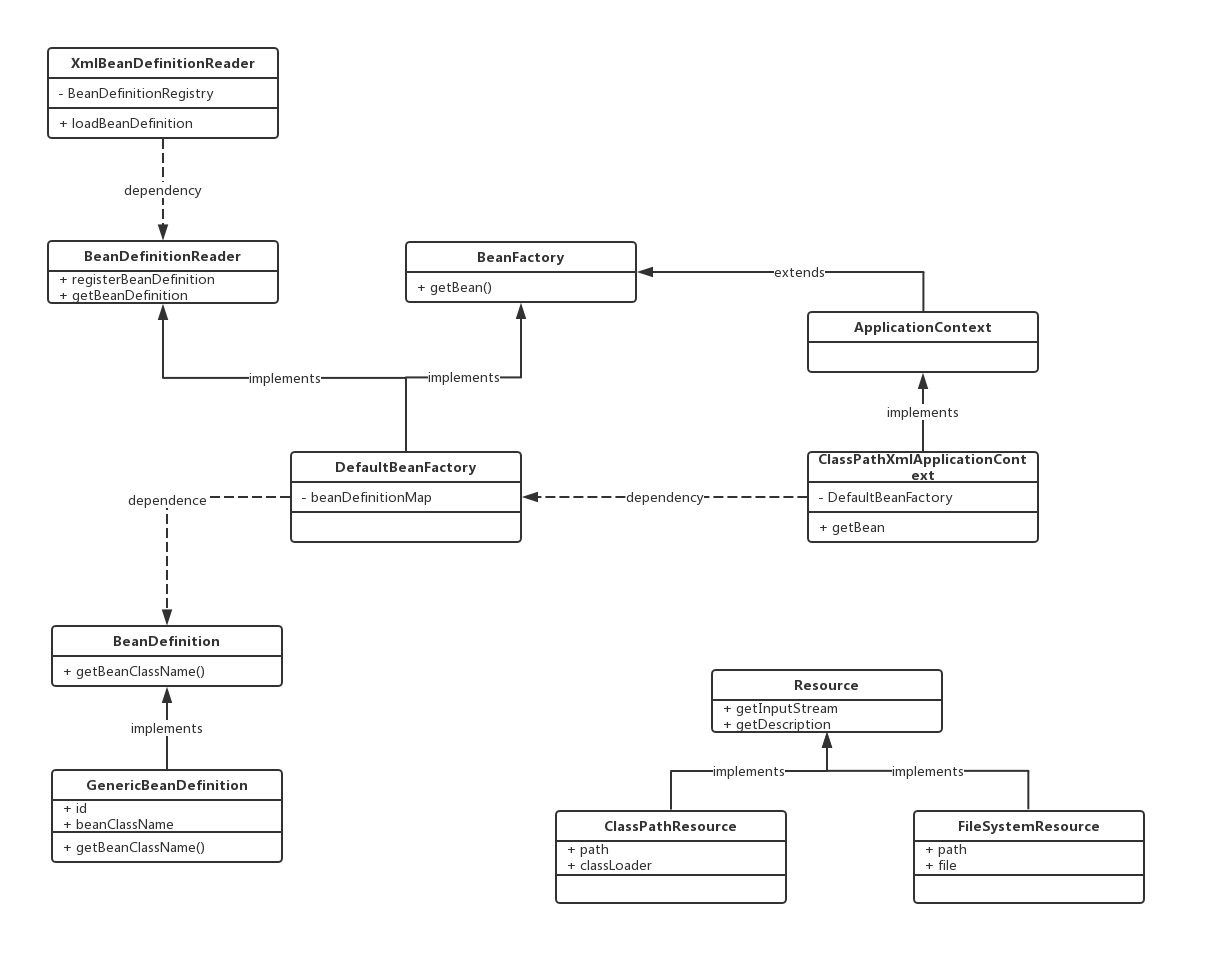
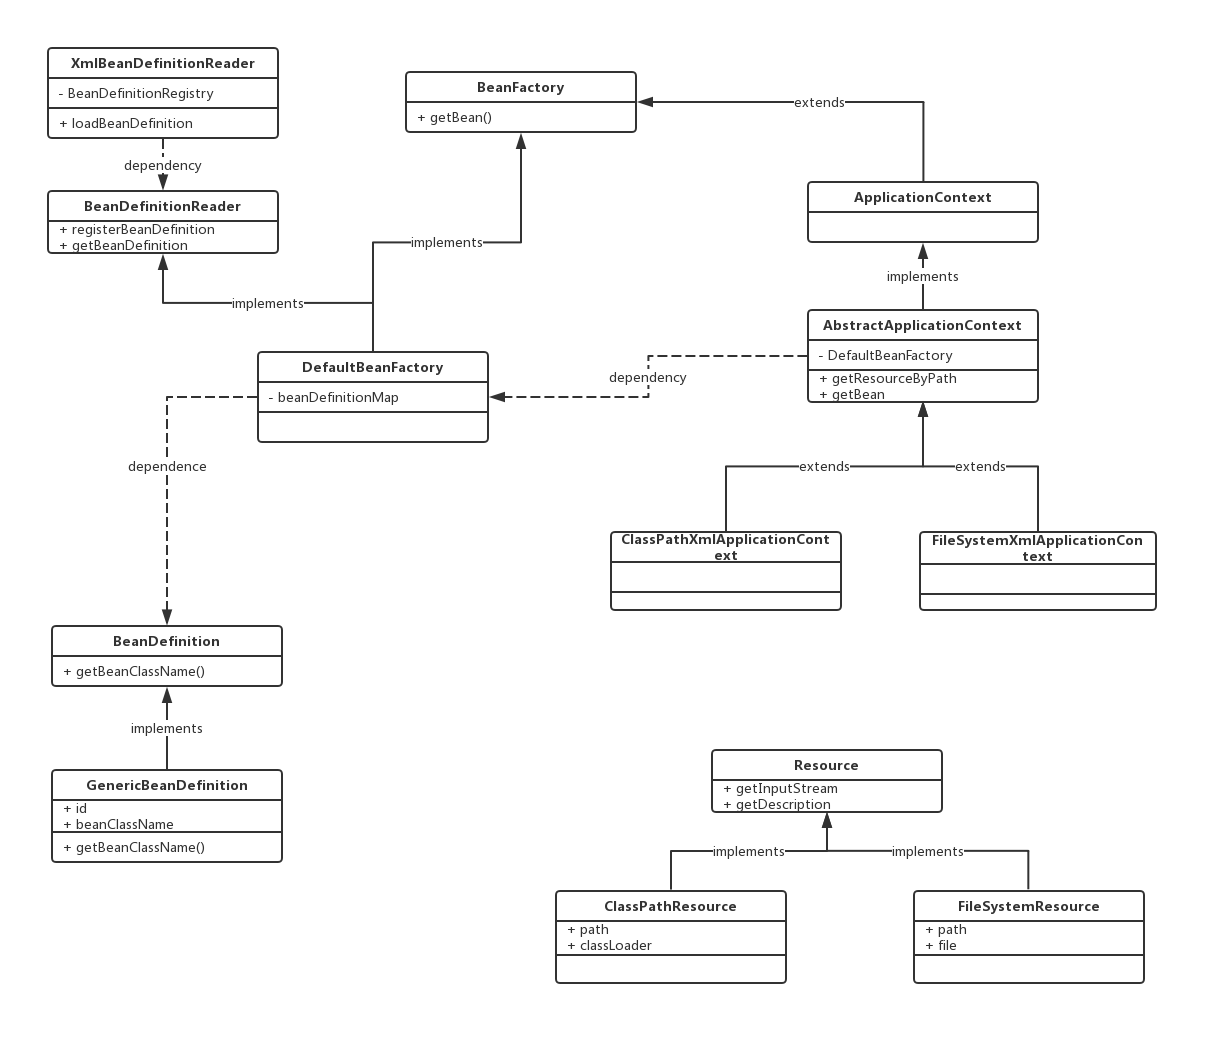
增加AbstractApplicationContext，此处使用了模版设计模式；修改类图；添加测试用例

diff --git a/src/test/java/org/whyspring/test/v1/BeanFactoryTest.java b/src/test/java/org/whyspring/test/v1/BeanFactoryTest.java
@@ -8,6 +8,8 @@ import org.whyspring.beans.factory.BeanCreationException;
 import org.whyspring.beans.factory.BeanDefinitionStoreException;
 import org.whyspring.beans.factory.support.DefaultBeanFactory;
 import org.whyspring.beans.factory.xml.XmlBeanDefinitionReader;
+import org.whyspring.core.io.ClassPathResource;
+import org.whyspring.core.io.Resource;
 import org.whyspring.service.v1.PetStoreService;
 
 public class BeanFactoryTest {
@@ -25,7 +27,8 @@ public class BeanFactoryTest {
     @Test
     public void testGetBean() {
 
-        reader.loadBeanDefinition("petstore-v1.xml");
+        Resource resource = new ClassPathResource("petstore-v1.xml");
+        reader.loadBeanDefinition(resource);
         BeanDefinition bd = factory.getBeanDefinition("petStore");
         Assert.assertEquals("org.whyspring.service.v1.PetStoreService", bd.getBeanClassName());
         PetStoreService petStoreService = (PetStoreService) factory.getBean("petStore");
@@ -35,7 +38,8 @@ public class BeanFactoryTest {
     @Test
     public void testInvalidBean() {
 
-        reader.loadBeanDefinition("petstore-v1.xml");
+        Resource resource = new ClassPathResource("petstore-v1.xml");
+        reader.loadBeanDefinition(resource);
         try {
             factory.getBean("invalidBean");
         } catch (BeanCreationException e) {
@@ -49,7 +53,8 @@ public class BeanFactoryTest {
     public void testInvalidXML() {
 
         try {
-            reader.loadBeanDefinition("xxx.xml");
+            Resource resource = new ClassPathResource("xxx.xml");
+            reader.loadBeanDefinition(resource);
         } catch (BeanDefinitionStoreException e) {
             return;
         }

diff --git a/src/main/java/org/whyspring/beans/factory/xml/XmlBeanDefinitionReader.java b/src/main/java/org/whyspring/beans/factory/xml/XmlBeanDefinitionReader.java
@@ -8,6 +8,7 @@ import org.whyspring.beans.BeanDefinition;
 import org.whyspring.beans.factory.BeanDefinitionStoreException;
 import org.whyspring.beans.factory.support.BeanDefinitionRegistry;
 import org.whyspring.beans.factory.support.GenericBeanDefinition;
+import org.whyspring.core.io.Resource;
 import org.whyspring.util.ClassUtils;
 
 import java.io.IOException;
@@ -26,12 +27,11 @@ public class XmlBeanDefinitionReader {
         this.registry = registry;
     }
 
-    public void loadBeanDefinition(String configFile) {
+    public void loadBeanDefinition(Resource resource) {
         InputStream is = null;
 
         try {
-            ClassLoader classLoader = ClassUtils.getDefaultClassLoader();
-            is = classLoader.getResourceAsStream(configFile);
+            is = resource.getInputStream();
 
             // 通过dom4j读取xml文件
             SAXReader reader = new SAXReader();
@@ -53,7 +53,7 @@ public class XmlBeanDefinitionReader {
                 BeanDefinition bd = new GenericBeanDefinition(beanId, beanClassName);
                 this.registry.registerBeanDefinition(beanId, bd);
             }
-        } catch (DocumentException e) {
+        } catch (Exception e) {
             throw new BeanDefinitionStoreException("IOException parsing XML document from ", e);
         } finally {
             if (is != null) {

diff --git a/src/main/java/org/whyspring/context/support/ClassPathXmlApplicationContext.java b/src/main/java/org/whyspring/context/support/ClassPathXmlApplicationContext.java
@@ -1,20 +1,17 @@
 package org.whyspring.context.support;
 
-import org.whyspring.beans.factory.support.DefaultBeanFactory;
-import org.whyspring.beans.factory.xml.XmlBeanDefinitionReader;
-import org.whyspring.context.ApplicationContext;
+import org.whyspring.core.io.ClassPathResource;
+import org.whyspring.core.io.Resource;
 
-public class ClassPathXmlApplicationContext implements ApplicationContext {
+public class ClassPathXmlApplicationContext extends AbstractApplicationContext {
 
-    private DefaultBeanFactory factory;
-
-    public ClassPathXmlApplicationContext(String configFile){
-        factory = new DefaultBeanFactory();
-        XmlBeanDefinitionReader reader = new XmlBeanDefinitionReader(factory);
-        reader.loadBeanDefinition(configFile);
+    public ClassPathXmlApplicationContext(String configFile) {
+        super(configFile);
     }
 
-    public Object getBean(String beanId) {
-        return this.factory.getBean(beanId);
+    public Resource getResourceByPath(String configFile) {
+        return new ClassPathResource(configFile);
     }
+
+
 }

diff --git a/src/test/java/org/whyspring/test/v1/ApplicationContextTest.java b/src/test/java/org/whyspring/test/v1/ApplicationContextTest.java
@@ -4,6 +4,7 @@ import org.junit.Assert;
 import org.junit.Test;
 import org.whyspring.context.ApplicationContext;
 import org.whyspring.context.support.ClassPathXmlApplicationContext;
+import org.whyspring.context.support.FileSystemXmlApplicationContext;
 import org.whyspring.service.v1.PetStoreService;
 
 public class ApplicationContextTest {
@@ -11,6 +12,13 @@ public class ApplicationContextTest {
     @Test
     public void testGetBean() {
         ApplicationContext ctx = new ClassPathXmlApplicationContext("petstore-v1.xml");
+        PetStoreService petStoreService = (PetStoreService) ctx.getBean("petStore");
+        Assert.assertNotNull(petStoreService);
+    }
+
+    @Test
+    public void testGetBeanFromFileSystemContext(){
+        ApplicationContext ctx = new FileSystemXmlApplicationContext("/install/code/whyspring/src/test/resources/petstore-v1.xml");
         PetStoreService petStoreService = (PetStoreService) ctx.getBean("petStore");
         Assert.assertNotNull(petStoreService);
     }

diff --git a/src/main/java/org/whyspring/context/support/AbstractApplicationContext.java b/src/main/java/org/whyspring/context/support/AbstractApplicationContext.java
@@ -1,0 +1,24 @@
+package org.whyspring.context.support;
+
+import org.whyspring.beans.factory.support.DefaultBeanFactory;
+import org.whyspring.beans.factory.xml.XmlBeanDefinitionReader;
+import org.whyspring.context.ApplicationContext;
+import org.whyspring.core.io.Resource;
+
+public abstract class AbstractApplicationContext implements ApplicationContext {
+
+    private DefaultBeanFactory factory;
+
+    public AbstractApplicationContext(String configFile){
+        factory = new DefaultBeanFactory();
+        XmlBeanDefinitionReader reader = new XmlBeanDefinitionReader(factory);
+        Resource resource = getResourceByPath(configFile);
+        reader.loadBeanDefinition(resource);
+    }
+
+    public Object getBean(String beanId) {
+        return this.factory.getBean(beanId);
+    }
+
+    public abstract Resource getResourceByPath(String configFile);
+}

diff --git a/src/main/java/org/whyspring/context/support/FileSystemXmlApplicationContext.java b/src/main/java/org/whyspring/context/support/FileSystemXmlApplicationContext.java
@@ -1,0 +1,15 @@
+package org.whyspring.context.support;
+
+import org.whyspring.core.io.FileSystemResource;
+import org.whyspring.core.io.Resource;
+
+public class FileSystemXmlApplicationContext extends AbstractApplicationContext {
+
+    public FileSystemXmlApplicationContext(String configFile){
+        super(configFile);
+    }
+
+    public Resource getResourceByPath(String configFile) {
+        return new FileSystemResource(configFile);
+    }
+}

diff --git a/src/test/java/org/whyspring/test/v1/V1AllTests.java b/src/test/java/org/whyspring/test/v1/V1AllTests.java
@@ -6,7 +6,8 @@ import org.junit.runners.Suite;
 @RunWith(Suite.class)
 @Suite.SuiteClasses({
         BeanFactoryTest.class,
-        ApplicationContextTest.class
+        ApplicationContextTest.class,
+        ResourceTest.class
 })
 public class V1AllTests {
 }
